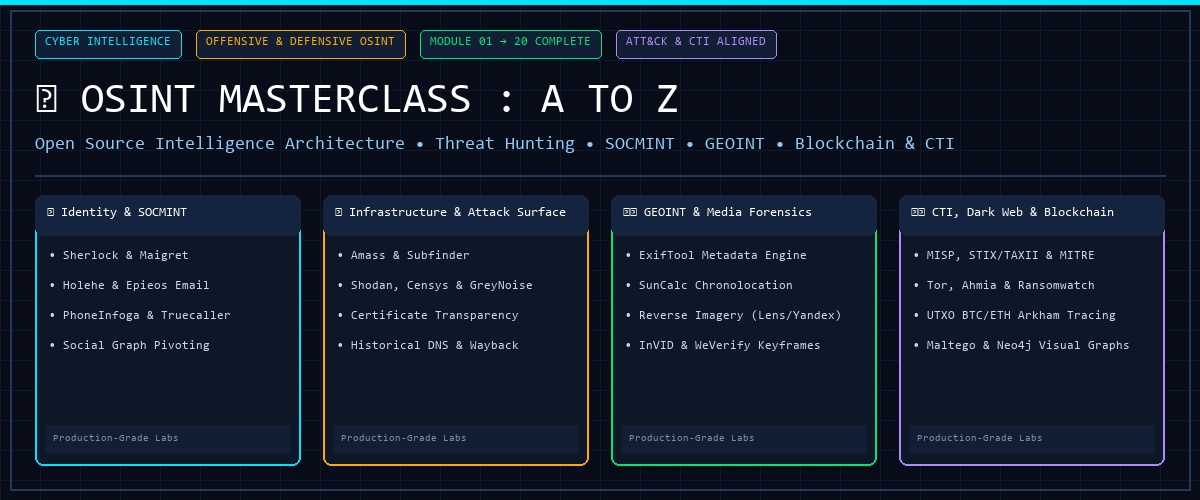
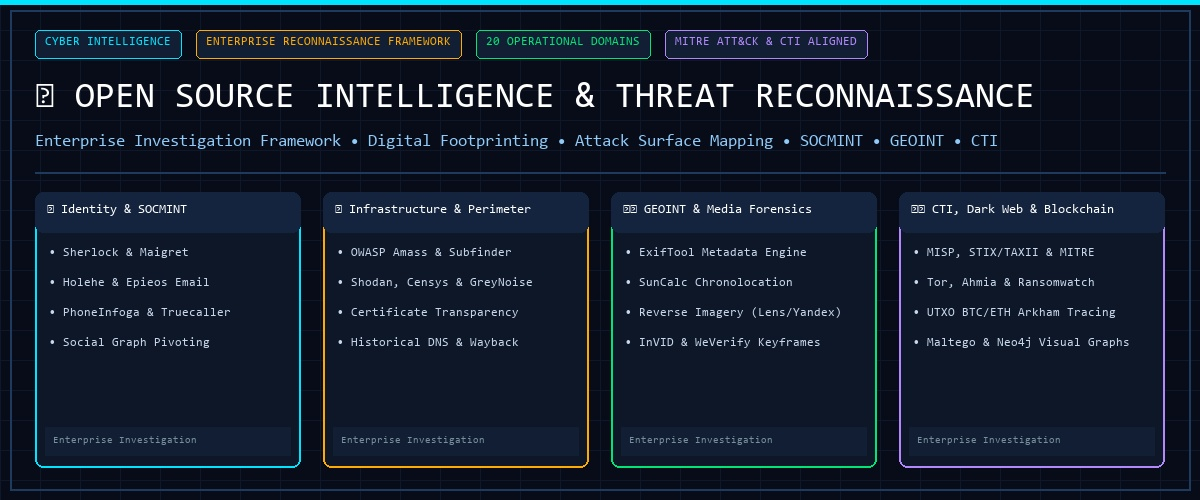
refactor(osint): adopt enterprise-grade title and professional framework nomenclature
- Rename guide to OSINT_Complete_Framework_and_Investigation_Guide.md
- Standardize title: 'Open Source Intelligence (OSINT) & Cyber Threat Reconnaissance'
- Update hero banner with enterprise-level typography, badges, and metadata
- Update animated GIF window header to 'OSINT Investigation Framework'
- Remove casual 'A to Z' references across all indices, tables, and guides
- Update root README and OSINT README files with professional descriptions
- Zero broken links, zero markdown formatting issues verified

diff --git a/OSINT/Over all OSINT/README.md b/OSINT/Over all OSINT/README.md
@@ -1,23 +1,23 @@
 <div align="center">
 
-![OSINT Masterclass Hero Banner](./images/osint_masterclass_banner.jpg)
+![Open Source Intelligence and Threat Reconnaissance Banner](./images/osint_masterclass_banner.jpg)
 
-# 🔎 OSINT — Complete Framework & Tools Master Guide
-### Open Source Intelligence Architecture • Threat Hunting • SOCMINT • GEOINT • Blockchain Forensics
+# 🔎 Open Source Intelligence (OSINT) & Threat Reconnaissance
+### Enterprise Investigation Framework • Digital Footprinting • Attack Surface Mapping • SOCMINT • GEOINT • CTI
 
-[![Framework](https://img.shields.io/badge/Framework-OSINT%20Framework-00e5ff?style=for-the-badge&logo=target)](https://osintframework.com/)
-[![Standard](https://img.shields.io/badge/Standard-NIST%20SP%20800--61-blue?style=for-the-badge&logo=shield)](https://csrc.nist.gov/)
-[![Curriculum](https://img.shields.io/badge/Curriculum-20%20Modules%20A--Z-success?style=for-the-badge&logo=git)](./OSINT_Complete_A_to_Z_Masterclass.md)
+[![Framework](https://img.shields.io/badge/Architecture-Enterprise%20OSINT%20Framework-00e5ff?style=for-the-badge&logo=target)](https://osintframework.com/)
+[![Standard](https://img.shields.io/badge/Standard-NIST%20SP%20800--61%20%7C%20DoD-blue?style=for-the-badge&logo=shield)](https://csrc.nist.gov/)
+[![Playbook](https://img.shields.io/badge/Playbook-20%20Operational%20Domains-success?style=for-the-badge&logo=git)](./OSINT_Complete_Framework_and_Investigation_Guide.md)
 
-**A complete operational framework and modular course covering all 20 domains of Open Source Intelligence (OSINT).**
+**An enterprise-grade operational playbook covering all 20 specialized disciplines of Open Source Intelligence (OSINT) and Cyber Threat Reconnaissance.**
 
 </div>
 
 ---
 
-## 📖 Master Course Navigation
+## 📖 Operational Guide Navigation
 
-👉 **[Launch Full 20-Module Course: `OSINT_Complete_A_to_Z_Masterclass.md`](./OSINT_Complete_A_to_Z_Masterclass.md)**
+👉 **[Launch Complete Investigation Guide: `OSINT_Complete_Framework_and_Investigation_Guide.md`](./OSINT_Complete_Framework_and_Investigation_Guide.md)**
 
 ---
 
@@ -33,35 +33,35 @@
 
 ---
 
-## 📂 Module Quick Index
+## 📂 Operational Domains Directory
 
-| Module | Topic | Core Focus & Tools | Direct Link |
+| Domain | Specialization | Core Capabilities & Toolchain | Direct Link |
 | :---: | :--- | :--- | :---: |
-| **01** | **Foundations & OPSEC** | DoD Intelligence Cycle, Sock Puppets, Virtual Personas, CFAA/GDPR | [Read](./OSINT_Complete_A_to_Z_Masterclass.md#module-01-foundations-intelligence-cycle--opsec-tradecraft) |
-| **02** | **Search Engines & Dorking** | Google Dorking, GHDB, Boolean Logic, SearXNG, Mojeek | [Read](./OSINT_Complete_A_to_Z_Masterclass.md#module-02-search-engines--advanced-google-dorking) |
-| **03** | **People & Identity** | Sherlock, Maigret, WhatsMyName, Blackbird, Username Profiling | [Read](./OSINT_Complete_A_to_Z_Masterclass.md#module-03-people--identity-intelligence) |
-| **04** | **Email & Headers** | Holehe, Epieos, Hunter, EmailRep, SPF/DKIM/DMARC Routing | [Read](./OSINT_Complete_A_to_Z_Masterclass.md#module-04-email-intelligence--header-forensics) |
-| **05** | **Phone & Telecom** | PhoneInfoga, NumVerify, Truecaller, E.164 Standards | [Read](./OSINT_Complete_A_to_Z_Masterclass.md#module-05-phone-number--telecom-reconnaissance) |
-| **06** | **Domain & DNS** | `dig`, `nslookup`, WHOIS/RDAP, DNSDumpster, Zone Transfers | [Read](./OSINT_Complete_A_to_Z_Masterclass.md#module-06-domain-dns--infrastructure-osint) |
-| **07** | **Subdomain Mapping** | Amass, Subfinder, Assetfinder, Findomain, crt.sh CT Logs | [Read](./OSINT_Complete_A_to_Z_Masterclass.md#module-07-subdomain-discovery--attack-surface-mapping) |
-| **08** | **Internet Scanners** | Shodan Filters & API, Censys, GreyNoise, ZoomEye, FOFA | [Read](./OSINT_Complete_A_to_Z_Masterclass.md#module-08-network-scanners--internet-wide-telemetry) |
-| **09** | **Tech Stack Profiling** | Wappalyzer, BuiltWith, urlscan.io, SecurityHeaders | [Read](./OSINT_Complete_A_to_Z_Masterclass.md#module-09-web-application--technology-profiling) |
-| **10** | **SOCMINT** | X/Twitter, LinkedIn Company Mapping, Telegram (TGStat), Reddit | [Read](./OSINT_Complete_A_to_Z_Masterclass.md#module-10-social-media-intelligence-socmint) |
-| **11** | **Code & Secret Hunting** | GitLeaks, TruffleHog, GitHub Search Dorks, Secret Detection | [Read](./OSINT_Complete_A_to_Z_Masterclass.md#module-11-code-repository--secret-exposure-osint) |
-| **12** | **Breach & Dark Web** | HIBP, DeHashed, Hudson Rock, Tor (.onion), Ahmia, Ransomwatch | [Read](./OSINT_Complete_A_to_Z_Masterclass.md#module-12-breach-intelligence--dark-web-monitoring) |
-| **13** | **Cryptocurrency OSINT** | UTXO Tracing, Mempool, Etherscan, Arkham Intelligence | [Read](./OSINT_Complete_A_to_Z_Masterclass.md#module-13-cryptocurrency--blockchain-forensics) |
-| **14** | **Business & Legal** | OpenCorporates, SEC EDGAR 10-K, ImportYeti Bill of Lading, PACER | [Read](./OSINT_Complete_A_to_Z_Masterclass.md#module-14-corporate-business--legal-osint) |
-| **15** | **GEOINT & Satellite** | Google Earth Pro, SunCalc Chronolocation, Overpass Turbo, Sentinel | [Read](./OSINT_Complete_A_to_Z_Masterclass.md#module-15-geospatial-intelligence-geoint--satellite) |
-| **16** | **Image Forensics** | ExifTool Metadata, FotoForensics (ELA), Google Lens, PimEyes | [Read](./OSINT_Complete_A_to_Z_Masterclass.md#module-16-image-forensics--reverse-visual-search) |
-| **17** | **Video & Audio** | InVID / WeVerify Keyframes, `yt-dlp`, FFmpeg, Whisper AI | [Read](./OSINT_Complete_A_to_Z_Masterclass.md#module-17-video--audio-osint-verification) |
-| **18** | **CTI Frameworks** | MISP, STIX 2.1 / TAXII, AlienVault OTX, MITRE ATT&CK, CISA KEV | [Read](./OSINT_Complete_A_to_Z_Masterclass.md#module-18-threat-intelligence--cti-frameworks) |
-| **19** | **Graph Correlation** | Maltego Transforms, Gephi Modularity, Neo4j Graph Models | [Read](./OSINT_Complete_A_to_Z_Masterclass.md#module-19-link-analysis--visual-graph-correlation) |
-| **20** | **Automation & Reports** | Recon-ng, FinalRecon, theHarvester, Professional CTI Dossier | [Read](./OSINT_Complete_A_to_Z_Masterclass.md#module-20-automated-frameworks--intelligence-reporting) |
+| **01** | **Foundations & OPSEC** | DoD Intelligence Cycle, Sock Puppets, Virtual Personas, CFAA/GDPR | [Read](./OSINT_Complete_Framework_and_Investigation_Guide.md#module-01-foundations-intelligence-cycle--opsec-tradecraft) |
+| **02** | **Search Engines & Dorking** | Google Dorking, GHDB, Boolean Logic, SearXNG, Mojeek | [Read](./OSINT_Complete_Framework_and_Investigation_Guide.md#module-02-search-engines--advanced-google-dorking) |
+| **03** | **People & Identity** | Sherlock, Maigret, WhatsMyName, Blackbird, Username Profiling | [Read](./OSINT_Complete_Framework_and_Investigation_Guide.md#module-03-people--identity-intelligence) |
+| **04** | **Email & Headers** | Holehe, Epieos, Hunter, EmailRep, SPF/DKIM/DMARC Routing | [Read](./OSINT_Complete_Framework_and_Investigation_Guide.md#module-04-email-intelligence--header-forensics) |
+| **05** | **Phone & Telecom** | PhoneInfoga, NumVerify, Truecaller, E.164 Standards | [Read](./OSINT_Complete_Framework_and_Investigation_Guide.md#module-05-phone-number--telecom-reconnaissance) |
+| **06** | **Domain & DNS** | `dig`, `nslookup`, WHOIS/RDAP, DNSDumpster, Zone Transfers | [Read](./OSINT_Complete_Framework_and_Investigation_Guide.md#module-06-domain-dns--infrastructure-osint) |
+| **07** | **Subdomain Mapping** | Amass, Subfinder, Assetfinder, Findomain, crt.sh CT Logs | [Read](./OSINT_Complete_Framework_and_Investigation_Guide.md#module-07-subdomain-discovery--attack-surface-mapping) |
+| **08** | **Internet Scanners** | Shodan Filters & API, Censys, GreyNoise, ZoomEye, FOFA | [Read](./OSINT_Complete_Framework_and_Investigation_Guide.md#module-08-network-scanners--internet-wide-telemetry) |
+| **09** | **Tech Stack Profiling** | Wappalyzer, BuiltWith, urlscan.io, SecurityHeaders | [Read](./OSINT_Complete_Framework_and_Investigation_Guide.md#module-09-web-application--technology-profiling) |
+| **10** | **SOCMINT** | X/Twitter, LinkedIn Company Mapping, Telegram (TGStat), Reddit | [Read](./OSINT_Complete_Framework_and_Investigation_Guide.md#module-10-social-media-intelligence-socmint) |
+| **11** | **Code & Secret Hunting** | GitLeaks, TruffleHog, GitHub Search Dorks, Secret Detection | [Read](./OSINT_Complete_Framework_and_Investigation_Guide.md#module-11-code-repository--secret-exposure-osint) |
+| **12** | **Breach & Dark Web** | HIBP, DeHashed, Hudson Rock, Tor (.onion), Ahmia, Ransomwatch | [Read](./OSINT_Complete_Framework_and_Investigation_Guide.md#module-12-breach-intelligence--dark-web-monitoring) |
+| **13** | **Cryptocurrency OSINT** | UTXO Tracing, Mempool, Etherscan, Arkham Intelligence | [Read](./OSINT_Complete_Framework_and_Investigation_Guide.md#module-13-cryptocurrency--blockchain-forensics) |
+| **14** | **Business & Legal** | OpenCorporates, SEC EDGAR 10-K, ImportYeti Bill of Lading, PACER | [Read](./OSINT_Complete_Framework_and_Investigation_Guide.md#module-14-corporate-business--legal-osint) |
+| **15** | **GEOINT & Satellite** | Google Earth Pro, SunCalc Chronolocation, Overpass Turbo, Sentinel | [Read](./OSINT_Complete_Framework_and_Investigation_Guide.md#module-15-geospatial-intelligence-geoint--satellite) |
+| **16** | **Image Forensics** | ExifTool Metadata, FotoForensics (ELA), Google Lens, PimEyes | [Read](./OSINT_Complete_Framework_and_Investigation_Guide.md#module-16-image-forensics--reverse-visual-search) |
+| **17** | **Video & Audio** | InVID / WeVerify Keyframes, `yt-dlp`, FFmpeg, Whisper AI | [Read](./OSINT_Complete_Framework_and_Investigation_Guide.md#module-17-video--audio-osint-verification) |
+| **18** | **CTI Frameworks** | MISP, STIX 2.1 / TAXII, AlienVault OTX, MITRE ATT&CK, CISA KEV | [Read](./OSINT_Complete_Framework_and_Investigation_Guide.md#module-18-threat-intelligence--cti-frameworks) |
+| **19** | **Graph Correlation** | Maltego Transforms, Gephi Modularity, Neo4j Graph Models | [Read](./OSINT_Complete_Framework_and_Investigation_Guide.md#module-19-link-analysis--visual-graph-correlation) |
+| **20** | **Automation & Reports** | Recon-ng, FinalRecon, theHarvester, Professional CTI Dossier | [Read](./OSINT_Complete_Framework_and_Investigation_Guide.md#module-20-automated-frameworks--intelligence-reporting) |
 
 ---
 
 <div align="center">
 
-[👉 Read the Complete 20-Module OSINT Masterclass](./OSINT_Complete_A_to_Z_Masterclass.md)
+[👉 Explore the Complete OSINT Operational Framework & Playbook](./OSINT_Complete_Framework_and_Investigation_Guide.md)
 
 </div>

diff --git a/README.md b/README.md
@@ -51,7 +51,7 @@ flowchart TD
     Tools --> T3["Hashcat Complete Course"]
     Tools --> T4["Aircrack-ng Wi-Fi Course"]
 
-    Osint --> O1["Complete A to Z Course (Modules 01-20)"]
+    Osint --> O1["OSINT Operational Framework & Playbook"]
     Osint --> O2["Infrastructure, Shodan & Censys"]
     Osint --> O3["GEOINT, EXIF & Video Forensics"]
     Osint --> O4["CTI, MISP, Dark Web & Blockchain"]
@@ -102,7 +102,7 @@ flowchart TD
 | :--- | :--- | :--- | :---: | :---: |
 | 🔒 **Git & GitHub** | **How to Use Git & GitHub Securely** | Essential Commands, Git 4-Zones, Ed25519 SSH, `gh` CLI, Signed Commits | All Levels | [Explore](./GitHub_Security/How_to_Use_GitHub_Securely_Complete_Guide.md) |
 | 🔒 **DevSecOps** | **GitHub Security & Hardening Masterclass** | Breach Case Studies (Uber/Toyota), Secret Scanning, Gitleaks, OIDC, Actions | All Levels | [Explore](./GitHub_Security/GitHub_Security_and_Hardening_Masterclass.md) |
-| 🔎 **OSINT** | **OSINT Complete A–Z Masterclass** | 20 Modules: Shodan, Censys, Subfinder, Holehe, GEOINT, Dark Web, Crypto | All Levels | [Explore](./OSINT/Over%20all%20OSINT/README.md) |
+| 🔎 **OSINT** | **Open Source Intelligence & Threat Reconnaissance** | Complete 20-Domain Framework: Shodan, Censys, Subfinder, Holehe, GEOINT, Dark Web, Crypto | Professional | [Explore](./OSINT/Over%20all%20OSINT/README.md) |
 | 🧰 **Tools** | **Nmap Masterclass** | TCP/UDP Sockets, Raw Packets, NSE (Lua), Firewall Evasion | All Levels | [Explore](./tools/Nmap/README.md) |
 | 🧰 **Tools** | **John the Ripper Masterclass** | Hash Cracking, Rule Mutation, Incremental, `*2john` Converters | All Levels | [Explore](./tools/John%20the%20ripper/README.md) |
 | 🧰 **Tools** | **Hashcat Masterclass** | GPU Acceleration, Attack Modes (0,1,3,6,7), Cryptanalysis | All Levels | [Explore](./tools/Hashcat/README.md) |
@@ -150,11 +150,11 @@ Modern organizations deploy code at unprecedented speeds, making source code rep
 
 ---
 
-# 🔎 OSINT & Threat Reconnaissance Masterclass
+# 🔎 Open Source Intelligence (OSINT) & Threat Reconnaissance
 
-[👉 **Explore Complete 20-Module OSINT Masterclass**](./OSINT/Over%20all%20OSINT/README.md) • [📖 **Direct Course Guide**](./OSINT/Over%20all%20OSINT/OSINT_Complete_A_to_Z_Masterclass.md)
+[👉 **Explore OSINT Operational Framework**](./OSINT/Over%20all%20OSINT/README.md) • [📖 **Complete Investigation Guide**](./OSINT/Over%20all%20OSINT/OSINT_Complete_Framework_and_Investigation_Guide.md)
 
-Open Source Intelligence is far more than simple search engine queries. This 20-module production-grade curriculum covers end-to-end reconnaissance tradecraft, pivot mechanics, toolchain automation, and blue team mitigation strategies:
+Open Source Intelligence is far more than simple search engine queries. This enterprise-grade operational playbook covers end-to-end reconnaissance tradecraft, pivot mechanics, toolchain automation, and blue team mitigation strategies:
 
 * **Core Operational Capabilities:**
   - **Identity & SOCMINT:** Multi-platform username hunting with **Sherlock** and **Maigret**, email profile identification via **Holehe** and **Epieos**, and telecom routing with **PhoneInfoga**.

diff --git a/OSINT/Over all OSINT/OSINT_Complete_Framework_and_Investigation_Guide.md b/OSINT/Over all OSINT/OSINT_Complete_Framework_and_Investigation_Guide.md
@@ -1,20 +1,20 @@
 <div align="center">
 
-![OSINT Masterclass Hero Banner](./images/osint_masterclass_banner.jpg)
+![Open Source Intelligence and Threat Reconnaissance Banner](./images/osint_masterclass_banner.jpg)
 
-# 🔎 OSINT MASTERCLASS : THE COMPLETE A TO Z COURSE
-### Advanced Cyber Reconnaissance • Threat Hunting • SOCMINT • GEOINT • Blockchain Forensics • CTI Architecture
+# 🔎 Open Source Intelligence (OSINT) & Cyber Threat Reconnaissance
+### Enterprise Investigation Framework • Attack Surface Mapping • SOCMINT • GEOINT • Blockchain Forensics • CTI Architecture
 
 [![Framework](https://img.shields.io/badge/Framework-OSINT%20Framework-00e5ff?style=for-the-badge&logo=target)](https://osintframework.com/)
 [![Standard](https://img.shields.io/badge/Standard-NIST%20SP%20800--61%20%7C%20DoD-blue?style=for-the-badge&logo=shield)](https://csrc.nist.gov/)
 [![Intelligence](https://img.shields.io/badge/Intelligence-MISP%20%7C%20STIX%202.1-orange?style=for-the-badge&logo=apache)](https://www.misp-project.org/)
-[![Status](https://img.shields.io/badge/Curriculum-20%20Modules%20Complete-success?style=for-the-badge&logo=git)](.)
+[![Playbook](https://img.shields.io/badge/Playbook-20%20Operational%20Domains-success?style=for-the-badge&logo=git)](.)
 
 <p align="center">
   <b>A comprehensive, production-grade Open Source Intelligence (OSINT) operations manual designed for Cybersecurity Analysts, Threat Hunters, Purple Teams, Penetration Testers, and Incident Responders.</b>
 </p>
 
-[🏛 Architecture & Lifecycle](#-osint-investigation-lifecycle--pivot-architecture) • [⚡ Animated Workflow Demo](#-live-investigation-workflow-demonstration) • [📚 Module Directory](#-curriculum-directory-module-01--module-20) • [⚖ Legal & OPSEC](#module-01-foundations-intelligence-cycle--opsec-tradecraft)
+[🏛 Architecture & Lifecycle](#-osint-investigation-lifecycle--pivot-architecture) • [⚡ Animated Workflow Demo](#-live-investigation-workflow-demonstration) • [📚 Operational Domains Directory](#-operational-domains-directory-domain-01--20) • [⚖ Legal & OPSEC](#module-01-foundations-intelligence-cycle--opsec-tradecraft)
 
 </div>
 
@@ -51,7 +51,7 @@ The terminal demonstration below simulates an end-to-end authorized threat recon
 
 ---
 
-## 📚 Curriculum Directory: Module 01 → Module 20
+## 📚 Operational Domains Directory: Domain 01 → 20
 
 | Module | Domain | Key Tools & Technologies | Focus & Capabilities |
 | :---: | :--- | :--- | :--- |
@@ -827,8 +827,8 @@ When completing an engagement, document your findings using an executive-ready i
 
 <div align="center">
 
-**🎯 OSINT Masterclass Complete — 20 Modules Operationalized**
+**🎯 Open Source Intelligence (OSINT) Framework Complete — 20 Operational Domains**
 
-*Ethical • Actionable • Production-Ready Cyber Threat Intelligence*
+*Ethical • Actionable • Enterprise-Grade Cyber Threat Intelligence*
 
 </div>

diff --git a/OSINT/README.md b/OSINT/README.md
@@ -8,7 +8,7 @@ Welcome to the **OSINT & Threat Reconnaissance Knowledge Base**. This section co
 
 | Module / Guide | Category | Primary Focus & Capabilities | Status | Direct Link |
 | :--- | :---: | :--- | :---: | :---: |
-| **🔎 OSINT Complete Framework & A–Z Masterclass** | **Complete Curriculum** | 20-Module Comprehensive Course: Search Engines, Dorking, Usernames, Emails, Telecom, Domains, DNS, Subdomains, Shodan, Censys, SOCMINT, GitLeaks, Breach DBs, Tor, Crypto UTXO, Corporate Registries, GEOINT, EXIF, Video Forensics, CTI (MISP/STIX), Maltego, and Reporting | 🟢 **Complete**<br>(Modules 01–20) | [Explore Course](./Over%20all%20OSINT/README.md) |
+| **🔎 Open Source Intelligence (OSINT) & Threat Reconnaissance** | **Enterprise Framework** | Comprehensive 20-Domain Field Manual: Search Engines, Advanced Dorking, Identity, Telecom, Domains, DNS, Subdomains, Shodan, Censys, SOCMINT, GitLeaks, Breach DBs, Tor, Crypto UTXO, Corporate Registries, GEOINT, EXIF, Video Forensics, CTI (MISP/STIX), Maltego, and Reporting | 🟢 **Complete** | [Explore Framework](./Over%20all%20OSINT/README.md) |
 
 ---
 
@@ -46,4 +46,4 @@ flowchart LR
 
 ---
 
-👉 **[Start the Complete OSINT A–Z Masterclass](./Over%20all%20OSINT/README.md)**
+👉 **[Explore the Complete OSINT Operational Framework & Playbook](./Over%20all%20OSINT/README.md)**
